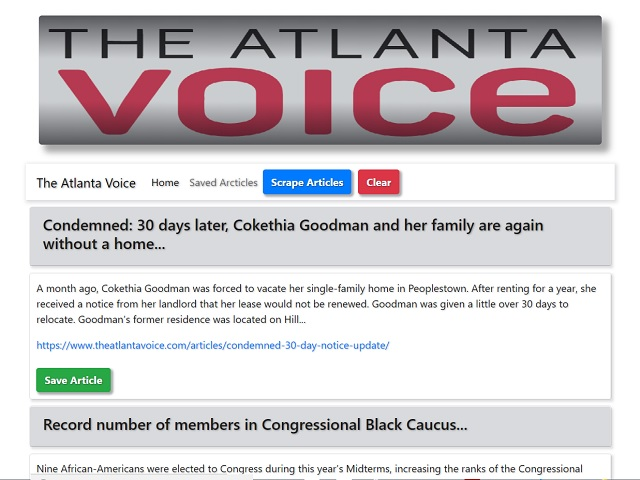
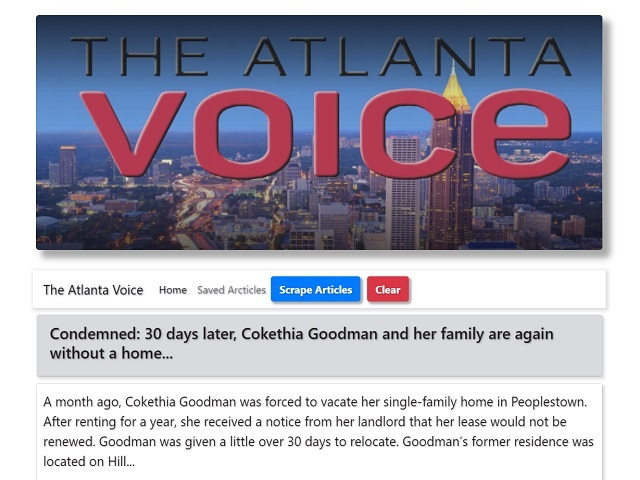
updated main page

diff --git a/public/assets/css/style.css b/public/assets/css/style.css
@@ -17,6 +17,7 @@
     padding: 10px;
     box-shadow: 3px 3px 5px 1px rgba(92, 92, 97, 0.2);
     text-shadow: 1px 1px 2px rgba(63, 63, 66, 0.397);
+    font-size: 20px;
 }
 
 .card-header{
@@ -51,12 +52,11 @@ H1{
     font-family: 'Fugaz One', cursive;
     margin: 30px;
     box-shadow: 10px 10px 15px 2px rgba(20, 20, 20, 0.37); 
-
-    background-image: linear-gradient(rgba(27, 27, 32, 0.705), rgba(125, 127, 128, 0.274), rgba(125, 127, 128, 0.274),rgba(27, 27, 32, 0.705)), url("/assets/images/tav3.png");   
+    background-image: linear-gradient(rgba(27, 27, 32, 0.705), rgba(125, 127, 128, 0.274), rgba(125, 127, 128, 0.274),rgba(27, 27, 32, 0.705)), url("/assets/images/Atlanta_4.jpg");   
     background-position: center;
     background-repeat: no-repeat;
     background-size: cover; 
-    height: 200px;
+    height: 350px;
     background-size:100% 100%;
     padding: 20px;
 
@@ -64,3 +64,22 @@ H1{
 #clear{
  margin-left: 10px;
 }
+
+@media (max-width: 780px) {
+    .jumbotron {
+         height: 200px;
+       }
+
+       .card-body{
+           font-size: 16px;
+       }
+       H4{
+           font-size: 18px;
+       }
+     }
+
+@media (max-width: 980px) {
+      jumbotron {
+             height: 250px;
+        }
+     }
